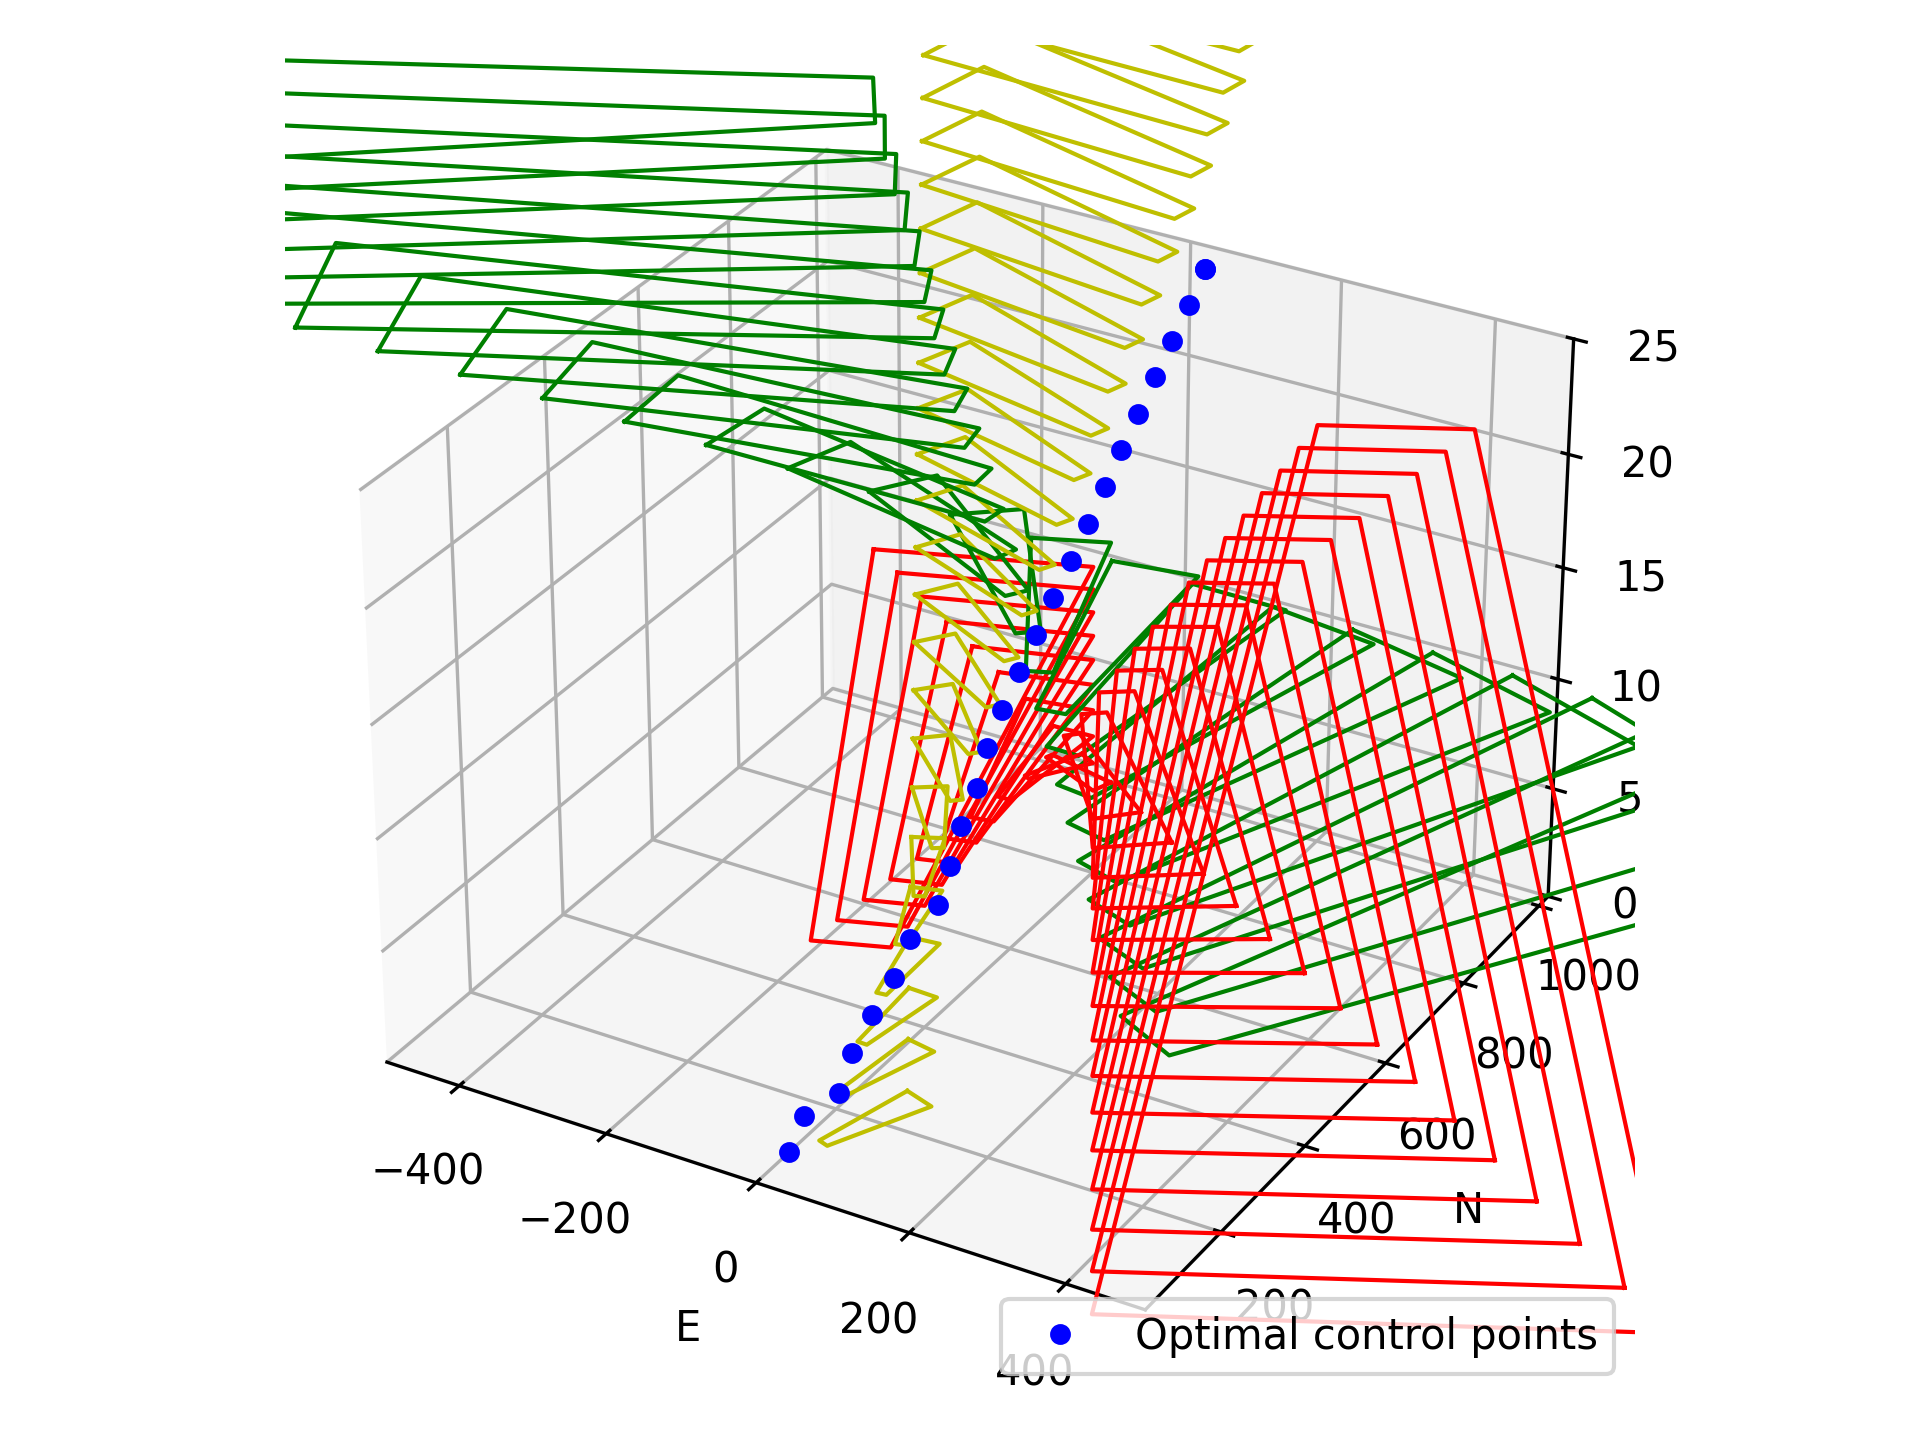
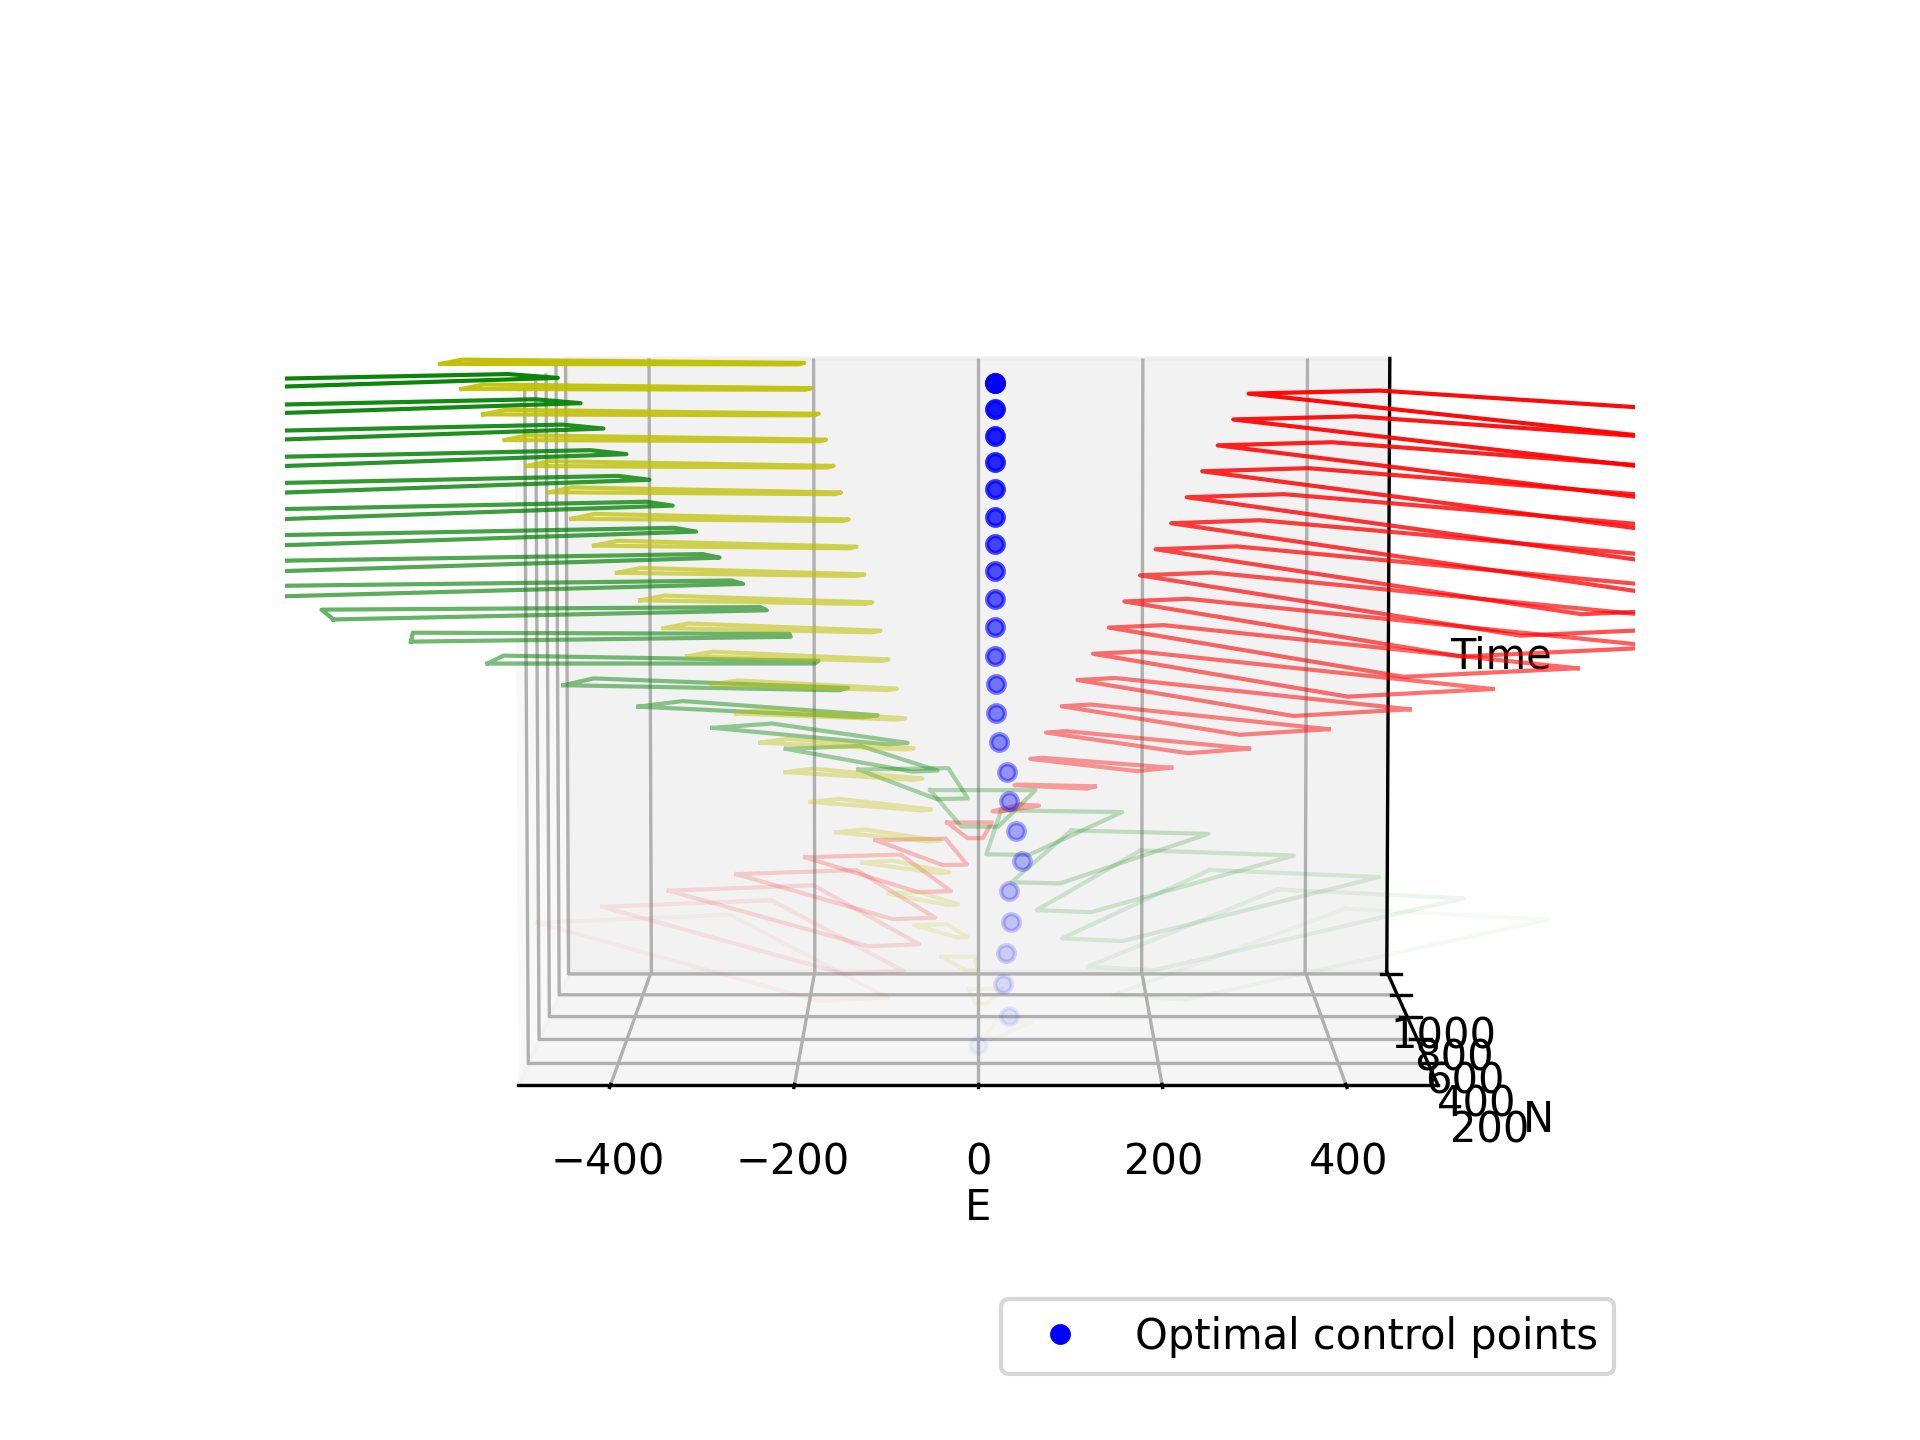
plotting changes for ICUAS revision

diff --git a/visualAvoidance2D/simulated_data.py b/visualAvoidance2D/simulated_data.py
@@ -260,10 +260,10 @@ def plot_solution(x0, res, list_of_vertices, ownship_start):
     for i, vertices in enumerate(list_of_vertices):
         for j, vertice in enumerate(vertices):
             ax.plot([vertice[0,1], vertice[1,1], vertice[2,1], vertice[3,1], vertice[0,1]],
-                    [vertice[0,0], vertice[1,0], vertice[2,0], vertice[3,0], vertice[0,0]], i, colors[j], linewidth=1)
+                    [vertice[0,0], vertice[1,0], vertice[2,0], vertice[3,0], vertice[0,0]], i, colors[j], linewidth=1, alpha=i/25)
 
     for i in range(0, len(res.x), 2):
-        ax.plot(res.x[i+1], res.x[i], int(i/2), 'o', color='blue', markersize=4)
+        ax.plot(res.x[i+1], res.x[i], int(i/2), 'o', color='blue', markersize=4, alpha = i/2/25)
 
     ax.plot(res.x[-1], res.x[-2], 24, 'o', color='blue', markersize=4, label='Optimal control points')
 
@@ -275,9 +275,9 @@ def plot_solution(x0, res, list_of_vertices, ownship_start):
     # ax.set_zlabel('Time in Seconds')
     ax.legend(loc='lower right')
 
-    # ax.view_init(elev=90, azim=-90)
-    # ax.set_zticks([])
-    # ax.set_zlabel('')
+    ax.view_init(elev=5, azim=-90)
+    ax.set_zticks([])
+    ax.set_zlabel('Time')
     
     plt.tight_layout()
     plt.savefig('visualAvoidance2D/figures/optimal_control_points.png', dpi=300)
